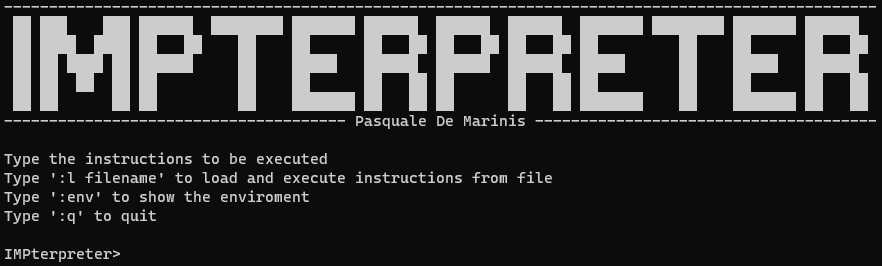
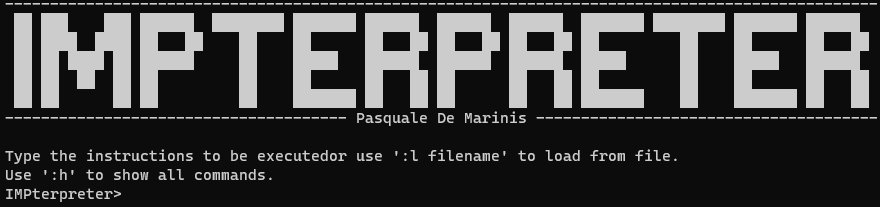
semifinal version

diff --git a/README.md b/README.md
@@ -319,25 +319,20 @@ bfactor =
 ```
 ```haskell
 bterm :: Parser BExp
+bterm :: Parser BExp
 bterm =
-    do
-        bf <- bfactor
-        (do
-            symbol "&&"
-            BExpOp bf And <$> bfactor) 
-            <|>
-            return bf
+    do 
+        lf <- bfactor
+        rest lf 
+    where rest lf = (do symbol "&&"; rf <- bfactor; rest (BExpOp lf Or rf)) <|> return lf
 ```
 ```haskell
 bexp :: Parser BExp
 bexp =
-    do
-        bt <- bterm
-        (do
-            symbol "||"
-            BExpOp bt Or <$> bexp) 
-            <|>
-            return bt
+    do 
+        lt <- bterm
+        rest lt 
+    where rest lt = (do symbol "||"; rt <- bterm; rest (BExpOp lt And rt)) <|> return lt
 ```
 
 #### 3.1.7 Command parsing
@@ -723,10 +718,97 @@ makeArrayExtensional env (e:ex) = execExpr env e (\x -> TArray (x:t))
 
 ## 4. Usage
 
-Load the  **Main.hs** module from an haskell shell,  and then type `main` to launch IMPterpreter.
-
-
+Load the **Main.hs** module from an haskell shell,  and then type `main` to launch IMPterpreter, this should be shown:
 
 ![image-20210103202322514](docs\imgs\main.png)
 
-Instructions can be directly typed into the shell or can be loaded from file with the `:l` command.
+Instructions can be directly typed into the shell or can be loaded from file with the **:l** command. All commands available are:
+
+- **:l filename** loads and executes instructions contained in the given file 
+- **:env** prints all the variables in the environment
+- **:p v** search the variable "v" in the environment: if is found prints *Just* its value, otherwise prints *Nothing*
+- **:cl**  empties the environment
+- **:q** quits from the interactive shell
+
+### 4.1 Code examples
+
+Assigning variables
+
+```pascal
+x = 6.7;
+y = False;
+v = [1, False, 4.5];
+```
+
+Using selection and loop
+
+```pascal
+b = True;
+if b then
+	x = 1;
+else
+	x = -1;
+end
+```
+
+```pascal
+n = 0;
+i = 0;
+while i<n do
+	i = i + 1;
+end
+```
+
+Factorial of 6
+
+```pascal
+f = 1;
+n = 6;
+i = 1;
+while i < n + 1 do
+    f = f * i;
+    i = i + 1;
+end
+```
+
+Average value of an array
+
+```pascal
+v = [2, 3, 6, 2, 3, 4];
+n = 6;
+i = 0;
+s = 0;
+while  i < n do
+    s = s + v[i];
+    i = i + 1;
+end
+m = s / n;
+```
+
+Matrix product
+
+```pascal
+M = 2;
+N = 2;
+P = 2;
+A = [[1, 2], [3, 4]];
+B = [[6, 4], [3, 1]];
+C = [[0, 0], [0, 0]];
+
+i = 0;
+j = 0;
+k = 0;
+while i < M do
+    j = 0;
+    while j < P do
+        k = 0;
+        while k < N do
+            C[i][j] = C[i][j] + A[i][k] * B[k][j];
+            k = k + 1;
+        end
+        j = j + 1;
+    end
+    i = i + 1;
+end
+```
+
